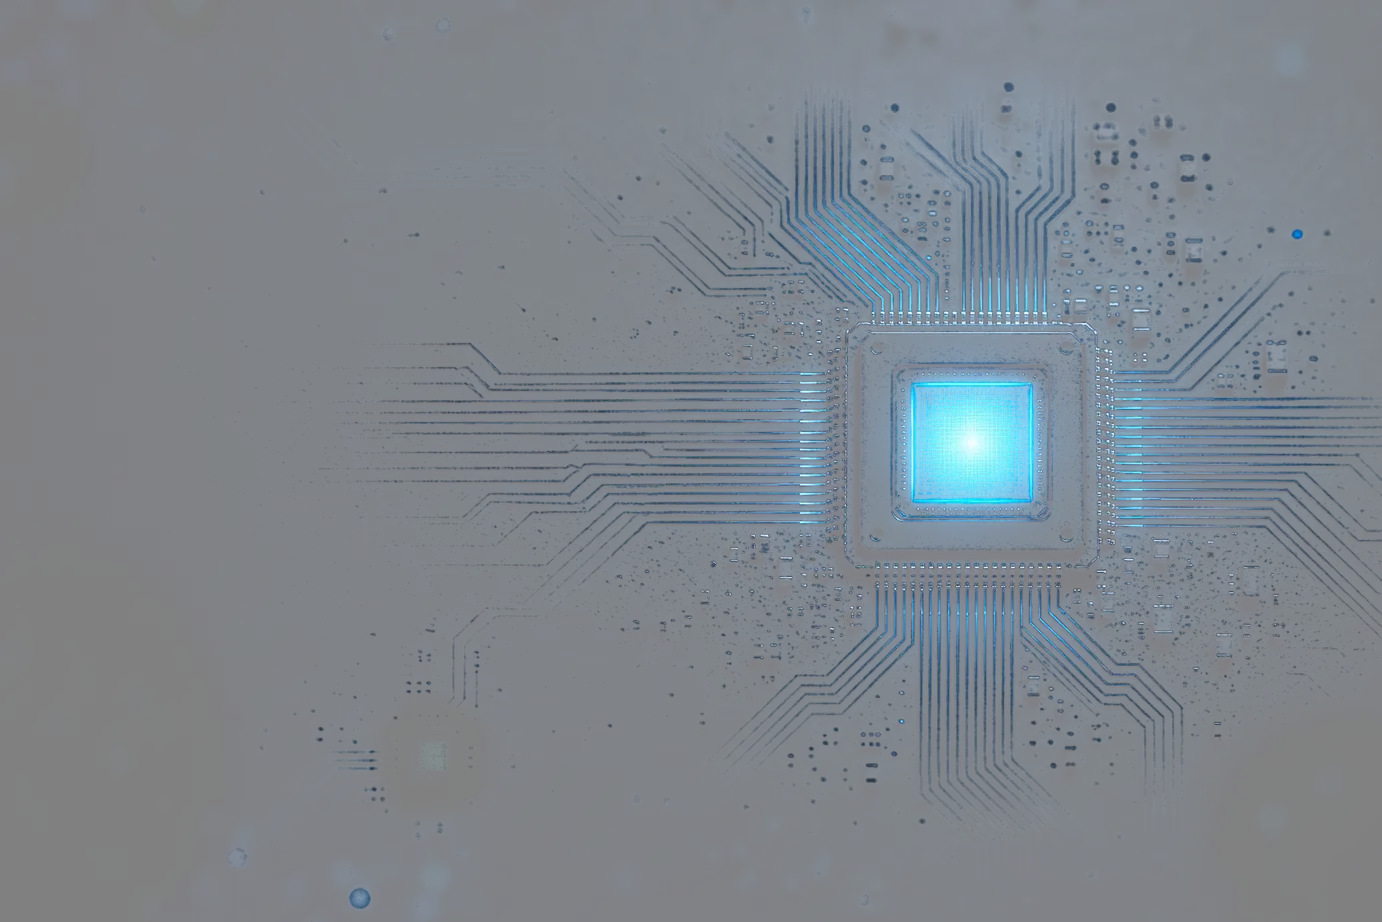
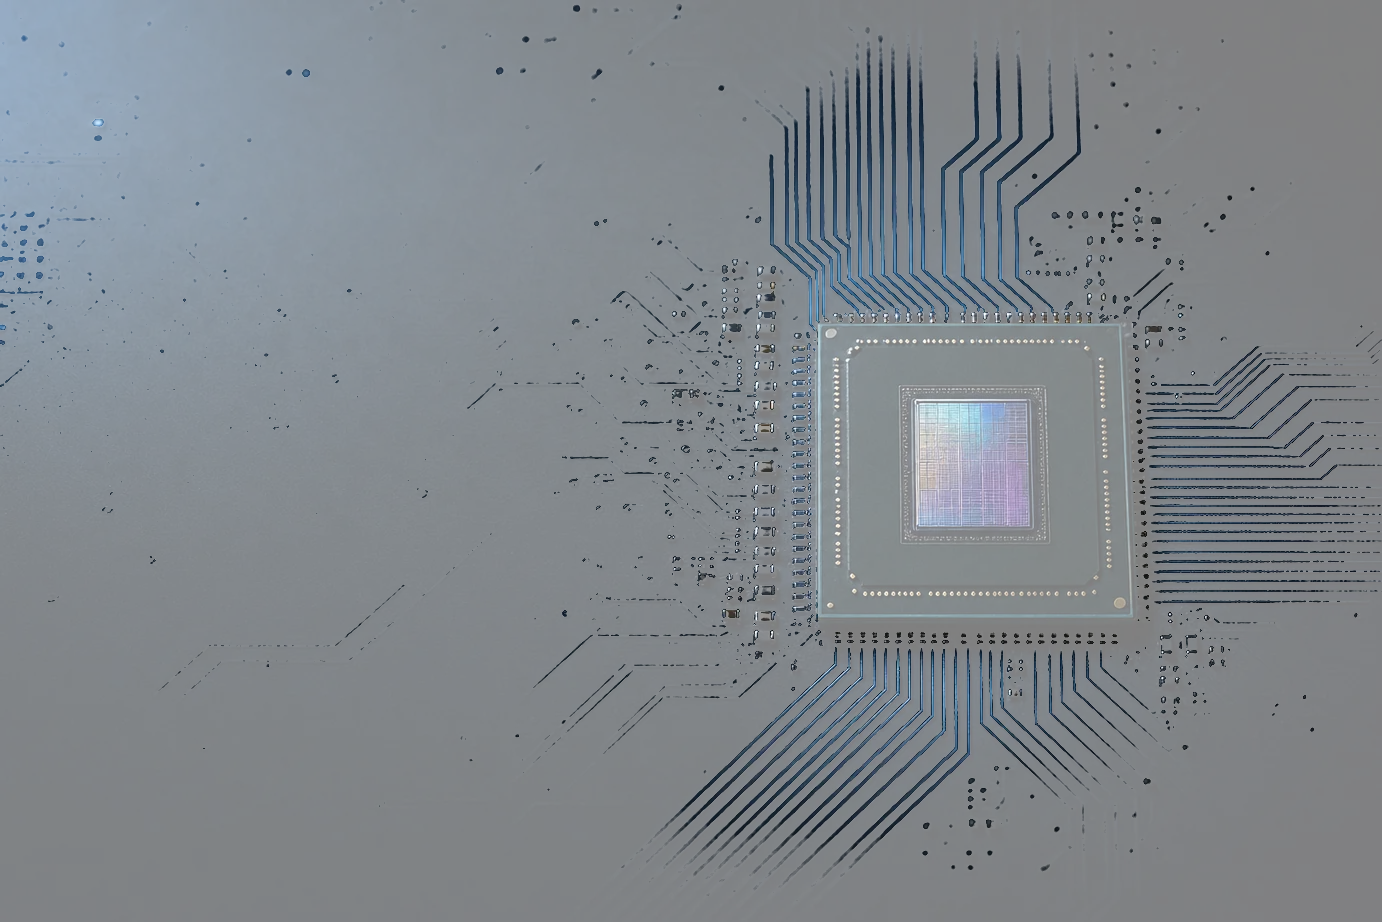
feat: real-chip circuit plate and breathing warp star

diff --git a/src/scenes/circuit.ts b/src/scenes/circuit.ts
@@ -1,5 +1,5 @@
-// Circuit: a dark board seen up close, lit by a processor on the right. The
-// board is a still plate; each frame adds the chip's light, pulses racing along
+// Circuit: a dark board seen up close around a processor on the right. The
+// board is a still plate; each frame adds light on the board, pulses racing along
 // the plate's traces and lit traces round the walls and the composer, so a still
 // costs nothing and a frame stays cheap.
 import type { SceneApi, SceneModule } from "./scene-host";
@@ -9,19 +9,18 @@ import wideUrl from "./plates/circuit-wide.webp";
 const ROLL_CAP_MS = 30000;
 const PERIOD = 600;
 
-// Each plate's size, its chip (centre and half-size in plate px), where the chip lands (tr px from its right edge to the screen's,
-// its centre ty down) and a zoom
-// below cover (the board mirrors past any edge it falls short of).
+// Each plate's size, its chip (centre and package half-size in plate px), where the chip lands (tr px from its right edge to the screen's,
+// its centre ty down), a zoom below cover and the bands (left, bottom; in plate sizes) the board folds back over past those edges.
 export const PLATES = {
-  wide: { url: wideUrl, w: 1536, h: 1024, ax: 1080, ay: 490, cr: 140, tr: 8, ty: 0.42, z: 0.62 },
-  tall: { url: tallUrl, w: 1024, h: 1536, ax: 742, ay: 316, cr: 140, tr: 8, ty: 0.155, z: 0.5 },
+  wide: { url: wideUrl, w: 1536, h: 1024, ax: 1084, ay: 524, cr: 176, tr: 8, ty: 0.45, z: 0.5, fold: [0.5, 0.3] },
+  tall: { url: tallUrl, w: 1024, h: 1536, ax: 720, ay: 376, cr: 172, tr: 4, ty: 0.17, z: 0.46, fold: [0.45, 0.6] },
 };
 type Plate = (typeof PLATES)["wide"];
 
-// Put the chip where the plate says. On an axis the plate covers, pull back so its edge stays off-screen; where it falls short it mirrors anyway.
+// Put the chip where the plate says. On an axis the plate covers, pull back so its edge stays off-screen. Left and below, the board
+// folds back over bands clear of the chip; above, it mirrors, so the zoom keeps that mirrored chip off-screen.
 export function place(p: Plate, width: number, height: number) {
-  // Zoomed out, the board mirrors past its edges; at least this zoom keeps the mirrored chip off-screen.
-  const s = Math.max(Math.max(width / p.w, height / p.h) * p.z, (width - p.tr) / (2 * p.ax - p.cr));
+  const s = Math.max(Math.max(width / p.w, height / p.h) * p.z, (height * p.ty) / (2 * p.ay - p.cr));
   const fit = (size: number, plate: number, at: number) => (plate * s >= size ? Math.min(0, Math.max(size - plate * s, at)) : at);
   return { s, ox: fit(width, p.w, width - p.tr - (p.ax + p.cr) * s), oy: fit(height, p.h, height * p.ty - p.ay * s) };
 }
@@ -30,6 +29,11 @@ const VERT = "attribute vec2 a; void main() { gl_Position = vec4(a, 0.0, 1.0); }
 const COMMON = `
 float h1(vec2 p) { vec3 q = fract(vec3(p.xyx) * 0.1031); q += dot(q, q.yzx + 33.33); return fract((q.x + q.y) * q.z); }
 vec4 tex(vec2 u) { return texture2D(uPlate, 1.0 - abs(1.0 - mod(u, 2.0))); }
+// Past the left and bottom edges the board folds back over bands clear of the chip, so the chip never repeats.
+vec2 fold(vec2 u) {
+  vec2 b = vec2(uFold.x * (1.0 - abs(1.0 - mod(-u.x / uFold.x, 2.0))), 1.0 - uFold.y * (1.0 - abs(1.0 - mod((u.y - 1.0) / uFold.y, 2.0))));
+  return vec2(u.x < 0.0 ? b.x : u.x, u.y > 1.0 ? b.y : u.y);
+}
 // A far board behind the plate's dark areas, soft as if out of focus. Each cell edge carries a trace or not, and
 // neighbouring cells share that coin, so the traces join up; a dead end ends on a via. k widens the traces.
 float farBoard(vec2 q, float k) {
@@ -75,7 +79,7 @@ vec2 wallRoute(vec2 p) {
 
 const FRAG = `
 precision highp float;
-uniform vec2 uSize, uBuf, uChip;
+uniform vec2 uSize, uBuf, uChip, uFold;
 uniform float uT, uFlow, uLaneX, uLaneW, uChipR, uCut;
 uniform vec4 uBox, uMap;
 uniform sampler2D uPlate;
@@ -110,7 +114,7 @@ void main() {
   float R = uChipR;
   // The camera eases in on the chip while working; at rest the plate sits exactly at its fit.
   vec2 pp = uChip + (px - uChip) / (1.0 + 0.03 * f);
-  vec2 uv = pp * uMap.xy + uMap.zw;
+  vec2 uv = fold(pp * uMap.xy + uMap.zw);
   vec4 pl = tex(uv);
   vec3 base = pl.rgb;
   vec2 cq = px - uChip;
@@ -133,13 +137,9 @@ void main() {
   // A dark band under the header keeps its icons and title off the board's brightest dots.
   float hb = (1.0 - smoothstep(30.0, 90.0, px.y)) * smoothstep(R * 0.8, R * 1.6, dc);
   base *= 1.0 - 0.6 * hb;
-  float breathe = 0.88 + 0.12 * sin(uT * 2.2);
-  float beat = pow(1.0 - fract(uT * 1.1), 5.0) * f;
   float pool = exp(-dc / (R * 2.5)) + 0.5 * exp(-dc / (R * 8.0));
-  // The board keeps its brightness while working; only the die flares as each wave lands.
-  base *= 1.0 + 1.2 * beat * exp(-dc / (R * 1.1));
-  // The chip's light pools on the board round it, not only on its traces.
-  vec3 add = LASER * m * pool * 0.34 + vec3(0.1, 0.35, 0.9) * exp(-dc / (R * 2.2)) * 0.16 + vec3(0.2, 0.55, 1.0) * (exp(-dc / (R * 0.9)) * (0.22 + 0.12 * f * breathe) + exp(-dc / (R * (0.9 + 1.2 * beat))) * 0.9 * beat);
+  // Light pools on the board round the chip, not only on its traces.
+  vec3 add = LASER * m * pool * 0.34 + vec3(0.1, 0.35, 0.9) * exp(-dc / (R * 2.2)) * 0.16;
 
   // Packets run in along the chip's buses (rows to its sides, columns above and below), each trace on its own phase and speed.
   bool side = fo.x > fo.y;
@@ -153,7 +153,7 @@ void main() {
   float amp = step(0.72, h1(vec2(bus, 3.1))) * (0.9 + 0.9 * h1(vec2(bus, 9.1))) * near;
   float held = step(0.7, h1(vec2(bus, 5.3))) * exp(-max(along, 0.0) / (R * 3.0)) * pin;
   float mt = smoothstep(0.15, 0.55, m);
-  // Each beat a square wave of light closes in through the traces and lands on the die as it flares.
+  // Each beat a square wave of light closes in through the traces to the pins.
   float bt = fract(uT * 1.1);
   float wave = exp(-pow(along - R * 2.6 * (1.0 - bt), 2.0) / (R * R * 0.03)) * bt * f * pin;
   add += mt * (LASER * held * 0.7 + f * CYAN * amp * (exp(-cy * cy / 160.0) * 3.2 + exp(-c / 120.0) * 1.5) + LASER * wave * 1.4)
@@ -170,7 +170,8 @@ void main() {
   float bo = length(fract(bq) - 0.3 - 0.4 * vec2(h1(bc + 5.3), h1(bc + 8.1)));
   float brr = mix(0.05, 0.12, h1(bc + 2.9));
   add += CYAN * step(0.8, h1(bc + 4.4)) * (1.0 - smoothstep(brr * 0.75, brr, bo)) * (0.75 + 0.25 * smoothstep(brr * 0.5, brr * 0.95, bo)) * 0.12 * (0.7 + 0.3 * f);
-  add *= 1.0 - 0.6 * hb;
+  // The package is the plate's own: nothing is drawn over it, so its die only shows the light it reflects.
+  add *= (1.0 - 0.6 * hb) * smoothstep(R * 0.97, R * 1.04, max(fo.x, fo.y));
 
   float dx = abs(px.x - uLaneX);
   // The chip itself stays lit: bot text stops short of it, and user bubbles over it are opaque.
@@ -222,7 +223,7 @@ void main() {
   gl_FragColor = vec4(col, 1.0);
 }`;
 
-const FRAME_UNIFORMS = ["uSize", "uBuf", "uChip", "uChipR", "uCut", "uT", "uFlow", "uLaneX", "uLaneW", "uBox", "uMap", "uPlate"] as const;
+const FRAME_UNIFORMS = ["uSize", "uBuf", "uChip", "uChipR", "uCut", "uFold", "uT", "uFlow", "uLaneX", "uLaneW", "uBox", "uMap", "uPlate"] as const;
 
 function create(api: SceneApi) {
   const canvas = document.createElement("canvas");
@@ -314,6 +315,7 @@ function create(api: SceneApi) {
     gl.uniform2f(U.uChip, ox + p.ax * s, oy + p.ay * s);
     gl.uniform1f(U.uChipR, p.cr * s);
     gl.uniform1f(U.uCut, cut);
+    gl.uniform2f(U.uFold, p.fold[0], p.fold[1]);
     gl.activeTexture(gl.TEXTURE0);
     gl.bindTexture(gl.TEXTURE_2D, plate);
     gl.uniform1i(U.uPlate, 0);

diff --git a/src/scenes/warp.ts b/src/scenes/warp.ts
@@ -37,6 +37,11 @@ void main() {
   float r = length(d) + 0.001;
   // The camera pushes in along the flight and the nebula smears away from the star; at rest the plate sits exactly at its fit.
   vec2 pp = uF + d / (1.0 + 0.05 * f);
+  // While working the star breathes every 2.5 s: it draws light in (streak heads pulled toward it, the star dims), swells
+  // brighter and wider, then settles. Both terms ease and scale with the flow, so a still never moves.
+  float bp = fract(uT * 0.4);
+  float inh = smoothstep(0.0, 0.45, bp) * (1.0 - smoothstep(0.45, 0.6, bp)) * f;
+  float gro = smoothstep(0.45, 0.62, bp) * (1.0 - smoothstep(0.62, 1.0, bp)) * f;
   vec3 bg = sky(pp);
   if (f > 0.004) {
     // A short smear, gone toward the screen edges so the nebula there holds still.
@@ -49,12 +54,16 @@ void main() {
   float swell = 4.0 * f * (1.0 - f);
   bg *= mix(vec3(1.0), vec3(0.85, 0.95, 1.2), f);
   bg += bg * (1.0 - bg) * (0.15 * f + 0.25 * swell) * exp(-r / (0.12 * S));
+  bg *= 1.0 - 0.18 * inh * exp(-r / (0.04 * S));
+  bg += bg * (1.0 - bg) * 0.5 * gro * exp(-r / (0.05 * S));
 
   float th = atan(d.y, d.x) * 0.15915494 + 0.5;
   float K = 0.055 * S;
   float dx = abs(px.x - uLaneX);
   float lane = (1.0 - smoothstep(uLaneW - 55.0, uLaneW + 15.0, dx)) * smoothstep(40.0, 130.0, px.y) * (1.0 - 0.85 * exp(-r / 45.0));
   vec3 add = vec3(0.0), heads = vec3(0.0);
+  // Streaks are drawn at rs, past where they sit, so on the in-breath they slide back toward the star.
+  float rs = r + 0.054 * S * inh * (1.0 - exp(-r / (0.3 * S)));
   // Layers 7-9 start close so the far field always has long streaks; 10-11 are near stars: few, thick, seen only once big.
   for (int i = 2; i < 12; i++) {
     float fi = float(i);
@@ -75,18 +84,18 @@ void main() {
     float rho = mix(ml + nl > 0.5 ? 0.3 : 0.1, 1.7, hs.y);
     float rh = rho * K / z;
     float rt = rho * K / (z + 0.29 * v * f * (1.0 + near));
-    float u = clamp((r - rt) / max(rh - rt, 0.001), 0.0, 1.0);
+    float u = clamp((rs - rt) / max(rh - rt, 0.001), 0.0, 1.0);
     float da = (fract(ab) - 0.25 - 0.5 * fract(hs.x * 7.3)) / bins * 6.2831853 * r;
-    float dr = r < rt ? rt - r : max(r - rh, 0.0);
+    float dr = rs < rt ? rt - rs : max(rs - rh, 0.0);
     float w0 = min(clamp(0.3 + 0.11 / z, 0.3, 3.6) * (1.0 + 1.8 * near + 1.2 * nl) * mix(0.7, 1.4, fract(hs.y * 7.7)), 6.0);
     // Farther from the star a streak is nearer the ship, so it runs wider and brighter.
-    float far = mix(0.6, 1.6, smoothstep(0.0, 0.75 * S, r));
+    float far = mix(0.6, 1.6, smoothstep(0.0, 0.75 * S, rs));
     float wdt = w0 * (0.45 + 0.55 * u) * far;
     float cellPx = 6.2831853 * r / bins;
     float aa = max(wdt, 0.85);
     float e = (da * da + dr * dr) / (aa * aa);
     float hw = min(wdt * 4.5, 0.14 * cellPx);
-    float dh = r - rh;
+    float dh = rs - rh;
     // Every term below is under exp(-9) this far from the streak and its head's bloom, and most of a cell is this far.
     if ((abs(da) > 3.0 * max(hw, 3.0 * wdt + 1.0) || dr > max(3.0 * hw, max(9.0, 4.0 * aa)) + 1.5) && da * da + dh * dh > 9.0 * (30.0 + 8.0 * aa * aa)) continue;
     float lum = smoothstep(0.0, 0.3, 1.0 - z) * clamp(0.09 / z, 0.25, mix(1.6, 2.2, nl)) * mix(0.4, 1.0, hs.x * hs.x) * mix(0.6, 1.25, max(near, ml)) * far * (1.0 - 0.75 * lane * max(near, nl));
@@ -97,8 +106,8 @@ void main() {
     float k = wdt / aa * u * lum * (1.0 + 1.2 * smoothstep(0.85, 1.0, u)) * cf;
     vec3 core = vec3(exp(-e)) * k;
     if (nl + ml > 0.5) {
-      float dR = r < rt - 1.5 ? rt - 1.5 - r : max(r - rh + 1.5, 0.0);
-      float dB = r < rt + 1.5 ? rt + 1.5 - r : max(r - rh - 1.5, 0.0);
+      float dR = rs < rt - 1.5 ? rt - 1.5 - rs : max(rs - rh + 1.5, 0.0);
+      float dB = rs < rt + 1.5 ? rt + 1.5 - rs : max(rs - rh - 1.5, 0.0);
       core = vec3(exp(-(da * da + dR * dR) / (aa * aa)), exp(-e), exp(-(da * da + dB * dB) / (aa * aa))) * k;
     }
     // Violet tail, cyan-blue body, blue-white head; the glow round it stays coloured. A quarter run violet like the gas, a fifth paler.
@@ -118,9 +127,9 @@ void main() {
   heads *= fade * mix(0.3, 1.0, smoothstep(0.0, 0.25, f));
 
   vec2 ad = abs(d);
-  float br = 0.9 + 0.1 * sin(uT * 2.7);
-  vec3 flare = (vec3(0.65, 0.82, 1.0) * exp(-r / 14.0) * 0.8 + vec3(0.45, 0.45, 1.0) * exp(-r / 90.0) * 0.14) * f * br;
-  flare += vec3(0.3, 0.5, 1.0) * exp(-ad.y * ad.y / 8.0) * exp(-ad.x / (uSize.x * 0.22)) * 0.3 * f + vec3(0.35, 0.5, 1.0) * exp(-r / (0.07 * S)) * 0.45 * f;
+  float br = 1.0 - 0.3 * inh + 0.9 * gro;
+  vec3 flare = (vec3(0.65, 0.82, 1.0) * exp(-r / (14.0 + 10.0 * gro)) * 0.8 + vec3(0.45, 0.45, 1.0) * exp(-r / (90.0 + 45.0 * gro)) * 0.14) * f * br;
+  flare += vec3(0.3, 0.5, 1.0) * exp(-ad.y * ad.y / 8.0) * exp(-ad.x / (uSize.x * 0.22)) * 0.3 * f + vec3(0.35, 0.5, 1.0) * exp(-r / ((0.07 + 0.03 * gro) * S)) * 0.45 * f * (1.0 - 0.3 * inh + 0.6 * gro);
   // Over the column streaks keep their hue at lower strength: per-channel tone mapping would turn a bright one grey there.
   // A phone's column spans the screen and its text sits on opaque cards, so there the streaks dim less.
   float sl = lane * (uSize.x > 700.0 ? 1.0 : 0.6);

diff --git a/src/scenes/circuit.test.ts b/src/scenes/circuit.test.ts
@@ -2,10 +2,12 @@ import { describe, expect, it } from "vitest";
 
 import { PLATES, place } from "./circuit";
 
-// A theme tile, desktop at 1440, wide monitors, a phone on its side, phones upright.
+// A theme tile, desktop at 1440 (sidebar open and shut), wide monitors, a phone on its side, phones upright.
 const sizes = [
   ["wide", 587, 380],
   ["wide", 1100, 900],
+  ["wide", 1120, 900],
+  ["wide", 1440, 900],
   ["wide", 1600, 1000],
   ["wide", 2200, 1300],
   ["wide", 844, 392],
@@ -14,12 +16,44 @@ const sizes = [
   ["tall", 360, 740],
 ] as const;
 
+// The chat column: 960 px at most, centred, 20 px padding; bot rows reach min(42rem, 78%) of it (chat-column.ts, ChatBubble.tsx).
+const botRight = (width: number) => {
+  const col = Math.min(width, 960);
+  return (width - col) / 2 + 20 + Math.min(672, 0.78 * (col - 40));
+};
+
+// Plate px under a screen point, folded and mirrored as tex() in circuit.ts does.
+function platePoint(p: (typeof PLATES)["wide"], s: number, ox: number, oy: number, x: number, y: number) {
+  let u = (x - ox) / (s * p.w);
+  let v = (y - oy) / (s * p.h);
+  const [fl, fb] = p.fold;
+  if (u < 0) u = fl * (1 - Math.abs(1 - ((-u / fl) % 2)));
+  if (v > 1) v = 1 - fb * (1 - Math.abs(1 - (((v - 1) / fb) % 2)));
+  const mirror = (t: number) => 1 - Math.abs(1 - (((t % 2) + 2) % 2));
+  u = mirror(u);
+  v = mirror(v);
+  return [u * p.w, v * p.h];
+}
+
 describe("circuit plate placement", () => {
-  it.each(sizes)("%s plate on %i x %i shows one chip", (kind, width, height) => {
+  it.each(sizes)("%s plate on %i x %i shows one chip, clear of the chat column", (kind, width, height) => {
     const p = PLATES[kind];
-    const { s, ox } = place(p, width, height);
-    expect(ox + (p.ax + p.cr) * s).toBeLessThanOrEqual(width);
-    // Left of the plate the board is mirrored, chip included.
-    if (ox > 0) expect(ox - (p.ax - p.cr) * s).toBeLessThanOrEqual(0);
+    const { s, ox, oy } = place(p, width, height);
+    const cx = ox + p.ax * s;
+    const cy = oy + p.ay * s;
+    // The camera eases in 3% on the chip while working.
+    const r = p.cr * s * 1.03;
+    expect(cx + r).toBeLessThanOrEqual(width);
+    expect(cy - r).toBeGreaterThanOrEqual(0);
+    expect(cy + r).toBeLessThanOrEqual(height);
+    expect(cx - r).toBeGreaterThanOrEqual(botRight(width));
+    for (let y = 0; y < height; y += 2) {
+      for (let x = 0; x < width; x += 2) {
+        if (Math.abs(x - cx) <= r && Math.abs(y - cy) <= r) continue;
+        const [px, py] = platePoint(p, s, ox, oy, x, y);
+        const inChip = Math.abs(px - p.ax) < p.cr && Math.abs(py - p.ay) < p.cr;
+        if (inChip) expect.fail(`a second chip shows at ${x}, ${y}`);
+      }
+    }
   });
 });
